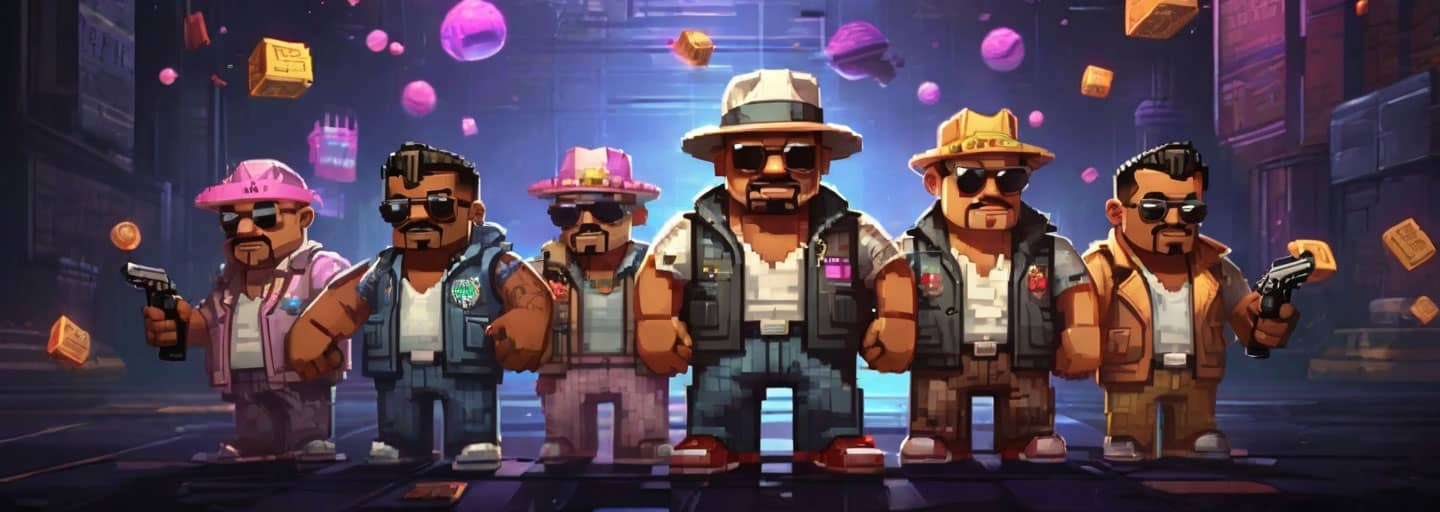
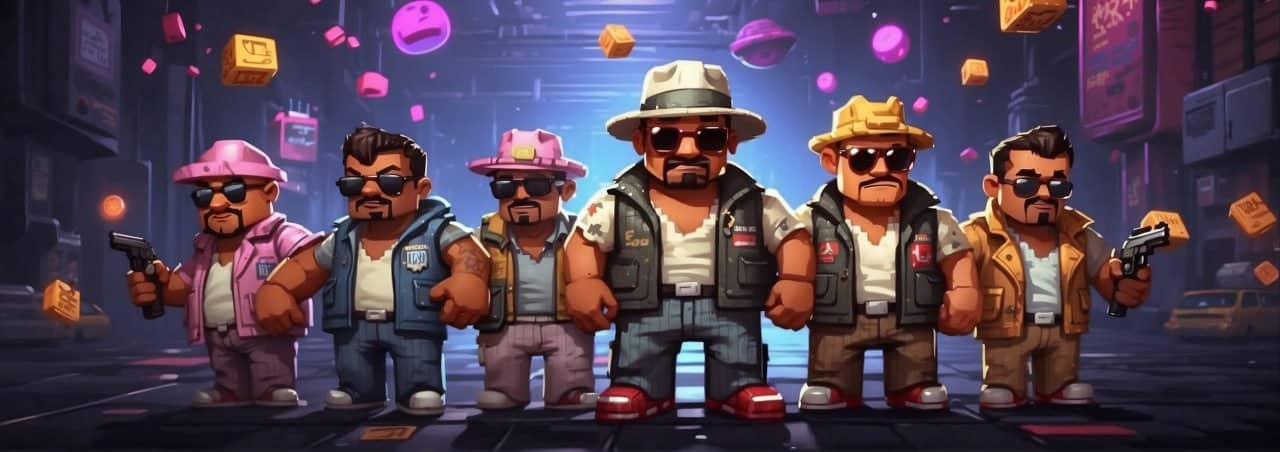
update hero image

diff --git a/tailwind.config.js b/tailwind.config.js
@@ -23,7 +23,7 @@ module.exports = {
     plugin(function ({ addBase, addUtilities, theme }) {
       addUtilities({
         '.bg-hero': {
-          backgroundImage: 'url("/images/hero.jpg")',
+          backgroundImage: 'url("/images/hero.webp"),url("/images/hero.jpg")',
           backgroundRepeat: 'no-repeat',
           backgroundPosition: 'center ',
           backgroundSize: 'cover',

diff --git a/src/components/Hero.tsx b/src/components/Hero.tsx
@@ -1,3 +1,3 @@
 export default function Hero() {
-  return <section className='w-full flex h-150 relative bg-hero'></section>
+  return <section className='relative flex w-full h-150 bg-hero'></section>
 }
